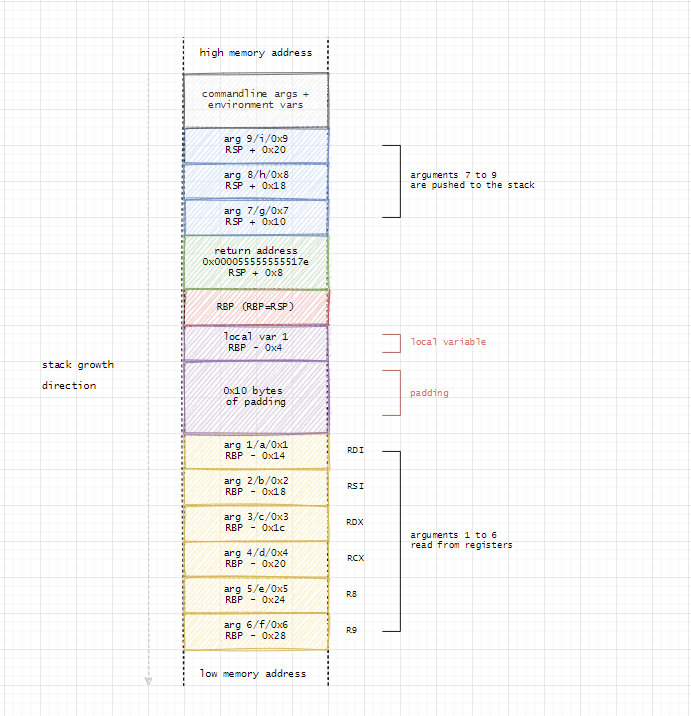
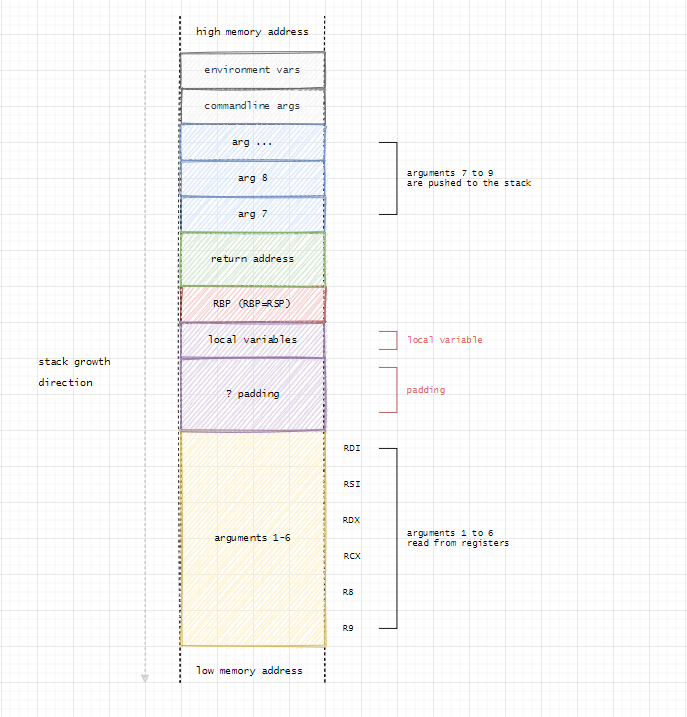
GitBook: [master] 2 pages and 8 assets modified

diff --git a/miscellaneous-reversing-forensics/windows-kernel-internals/linux-x64-calling-convention-stack-frame.md b/miscellaneous-reversing-forensics/windows-kernel-internals/linux-x64-calling-convention-stack-frame.md
@@ -117,11 +117,11 @@ Note from the above screenshot:
 
 Also, if we check what's happening higher up at the stack, we will see that it contains the environment variables the program was started with:
 
-![](../../.gitbook/assets/image%20%28904%29.png)
+![](../../.gitbook/assets/image%20%28905%29.png)
 
-Combining all the abive knowledge, we can now visualize the stack as follows:
+Combining all the above knowledge, we can get a general view of the stack layout:
 
-![Stack layout for 64-bit program on 64-bit Linux system](../../.gitbook/assets/image%20%28906%29.png)
+![Stack layout for 64-bit program on 64-bit Linux system](../../.gitbook/assets/image%20%28910%29.png)
 
 ## References
 

diff --git a/offensive-security/code-execution/binary-exploitation/return-to-libc.md b/offensive-security/code-execution/binary-exploitation/return-to-libc.md
@@ -178,7 +178,7 @@ Worth remembering, that we can look for the required string using gdb-peda like 
 find "/bin/sh"
 ```
 
-![](../../../.gitbook/assets/image%20%28905%29.png)
+![](../../../.gitbook/assets/image%20%28906%29.png)
 
 ## Exploiting
 
